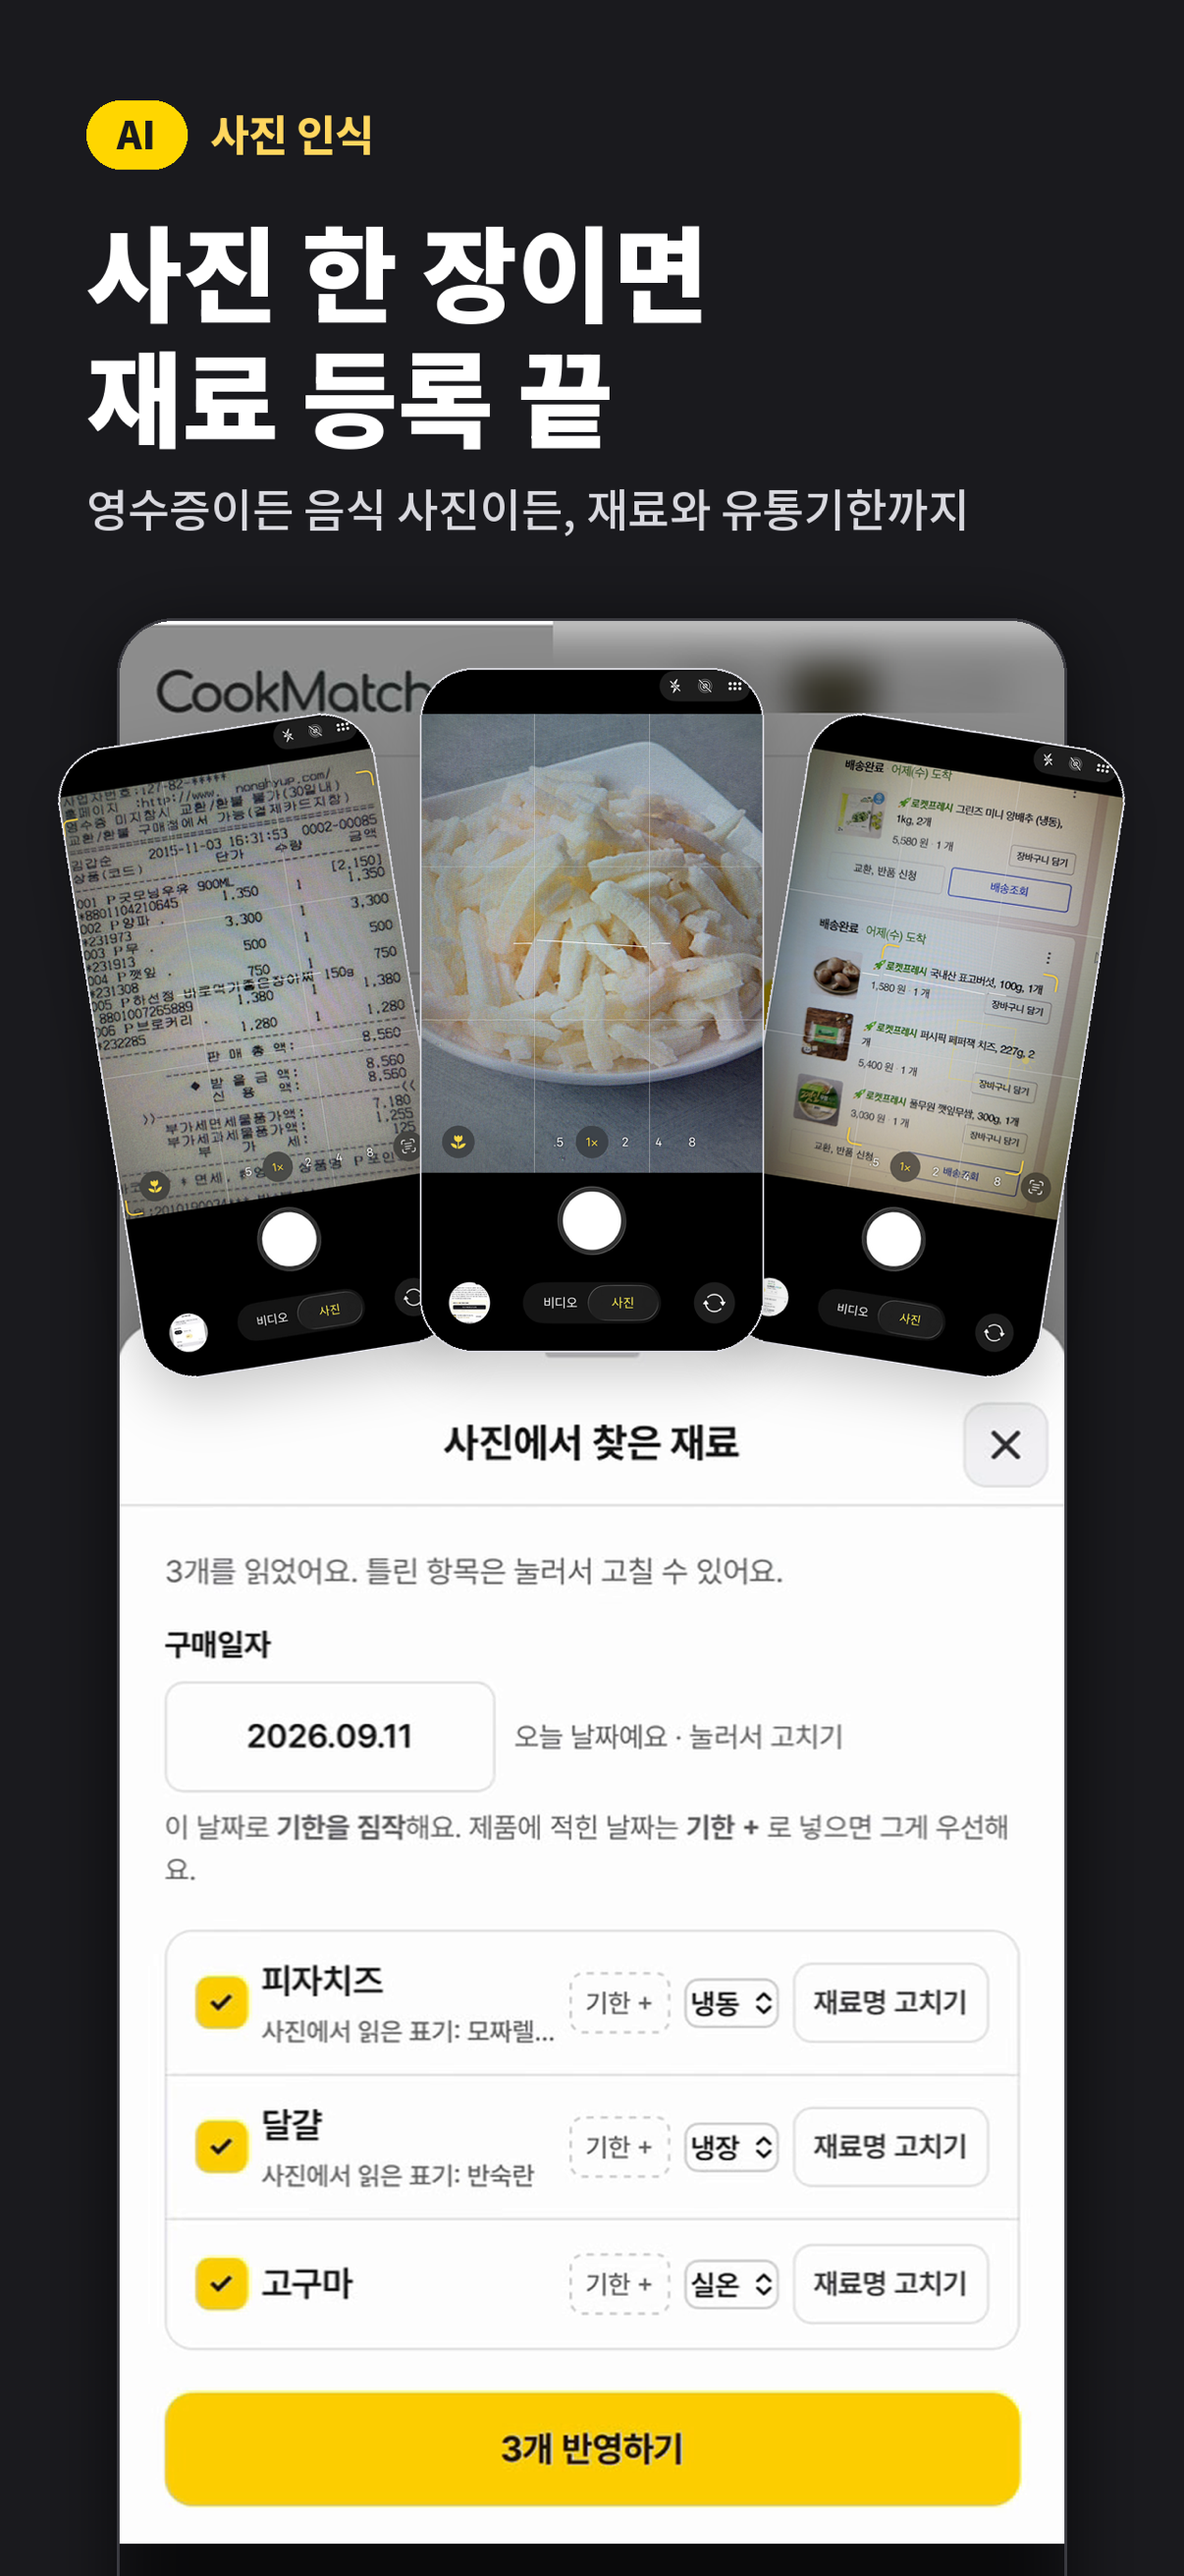
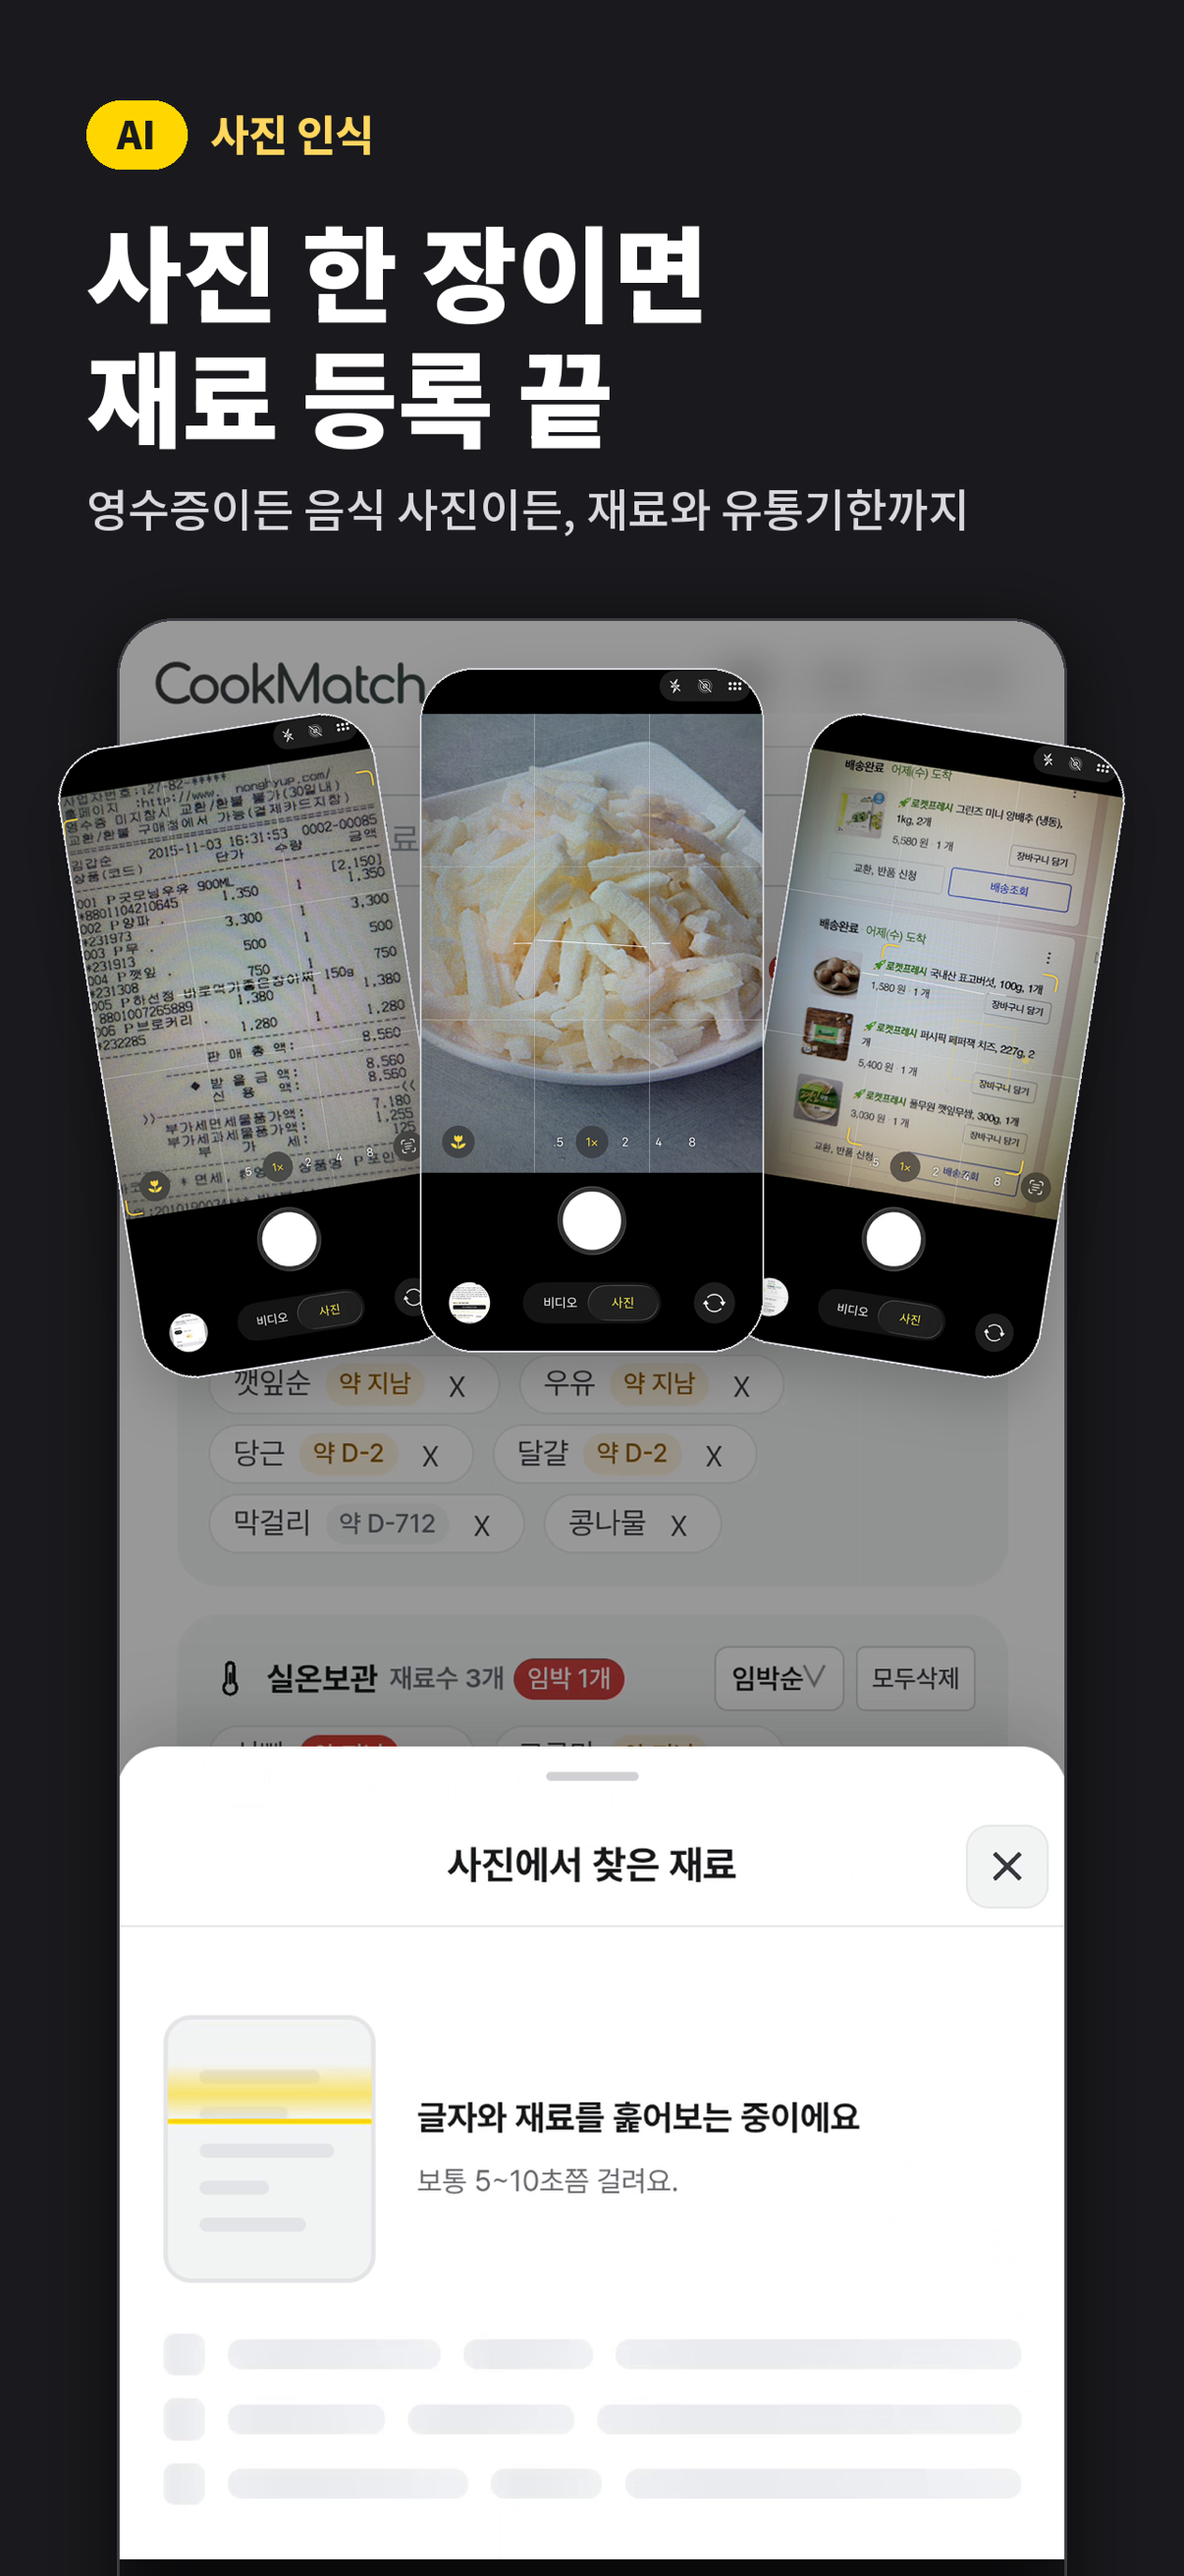
iOS 1.0.7 (빌드 13) 번호 올림 — 앱·위젯, 맥 Release 빌드 확인, 스크린샷 1206×2622 판 갱신

diff --git a/RELEASE_NOTES.md b/RELEASE_NOTES.md
@@ -13,7 +13,7 @@
 
 ## 다음 버전 — 쌓는 중 (iOS 1.0.7 · 빌드 13 / Android 1.0.8 · versionCode 9)
 
-**Android 1.0.8(9) 빌드 완료 2026-10-16 00:00**(서명된 `app-release.aab`, `800c774e` 기준 — 2026-10-10~15 줄 전부 포함). iOS 는 맥에서 1.0.7(13)으로.
+**Android 1.0.8(9) 빌드 완료 2026-10-16 00:00**(서명된 `app-release.aab`, `800c774e` 기준 — 2026-10-10~15 줄 전부 포함). **iOS 1.0.7(13) 맥 빌드 2026-10-16** — `c5b1d9f9` 기준, `project.pbxproj` 1.0.6(12) → 1.0.7(13), Release 빌드 성공. 스크린샷 03·04·05·06·08 새 판을 `ios_1206x2622/` 로 다시 만듦. Archive·업로드·심사 제출은 사용자.
 
 **Android 1.0.7(8) 빌드 완료 2026-10-09 15:18**(서명된 `app-release.aab`) — 아래 표 전부 포함. **iOS 1.0.6(12) 맥 빌드 2026-10-10** — `eba61fce` 기준, Release 빌드 성공. 1.0.5(11) 는 심사 통과(승인) → **2026-10-10 00:29 1.0.6(12) 새 버전으로 심사 제출**, 심사 대기 중. 이 시각 이후 앱 쪽을 또 고치면 다시 빌드(Android versionCode 9).
 
